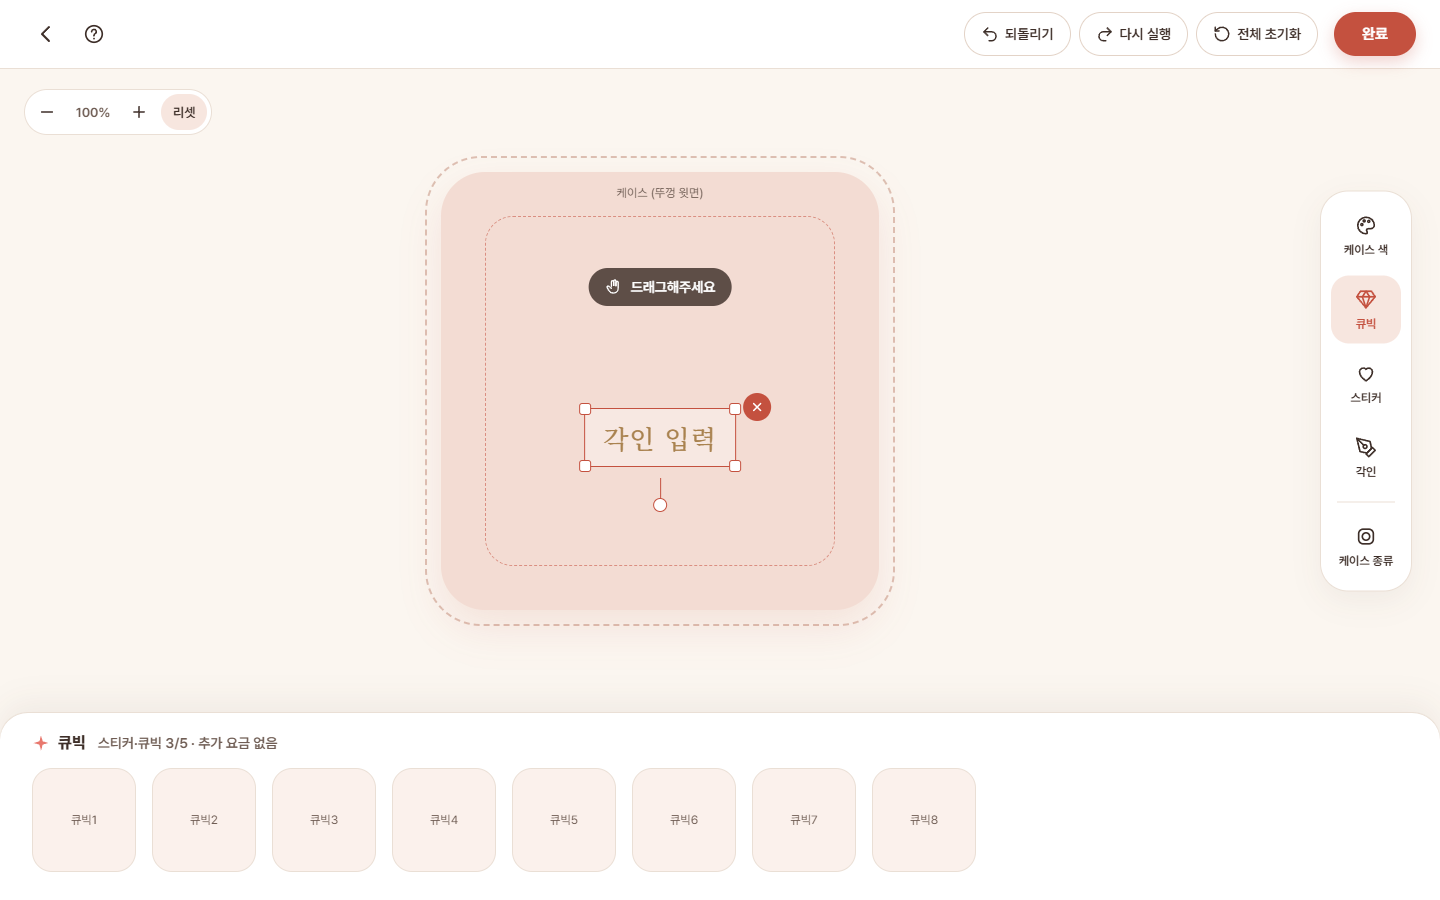
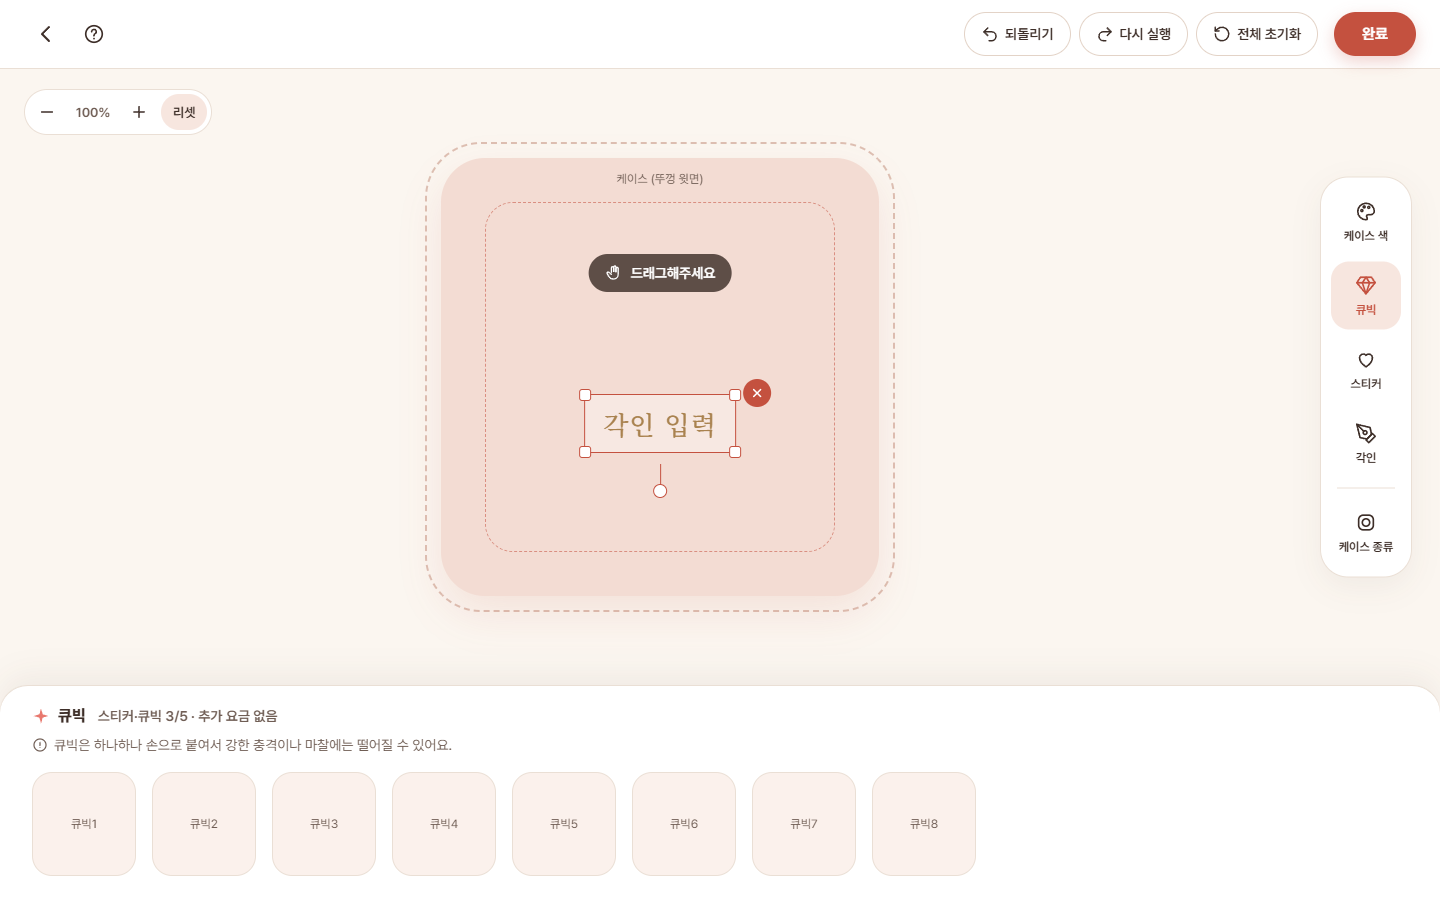
Pin the cubic caution inside the cubic panel and refresh PNGs
- Replace the timed P03 cubic notice with a fixed one-line caution under the cubic panel title
- Update downloaded design screenshots (P02-P06, M03) and remove the export zip
- Sync PROJECT_CONTEXT, structure, wireframe and interaction docs

diff --git a/docs/html/p03-customize.html b/docs/html/p03-customize.html
@@ -77,12 +77,6 @@ a{color:#3D2E28}a:hover{color:#C4513F}
             드래그해주세요
           </div>
 
-          <!-- 큐빅 안내: 큐빅 패널을 처음 열 때 드래그 안내 아래에 4초 -->
-          <div role="status" style="position: absolute; top: 148px; left: 50%; transform: translateX(-50%); display: flex; align-items: flex-start; gap: 8px; padding: 10px 16px; border-radius: 16px; background: rgba(61, 46, 40, 0.82); color: #FFFFFF; font-size: 14px; font-weight: 600; line-height: 1.5; white-space: nowrap">
-            <svg width="18" height="18" viewBox="0 0 24 24" fill="none" stroke="currentColor" stroke-width="1.8" stroke-linecap="round" stroke-linejoin="round" aria-hidden="true" style="flex: none; margin-top: 1px"><circle cx="12" cy="12" r="9"></circle><path d="M12 8v5M12 16h.01"></path></svg>
-            <span>큐빅은 하나하나 손으로 붙여 드려요.<br>강한 충격이나 마찰에는 떨어질 수 있어요.</span>
-          </div>
-
           <!-- 선택 상자 예시 (각인 선택 상태) -->
           <div style="position: absolute; top: 236px; left: 50%; transform: translateX(-50%); padding: 10px 18px; border: 1.5px solid #C4513F; border-radius: 6px; background: rgba(255, 255, 255, 0.35)">
             <span style="font-family: 'Noto Serif KR', serif; font-size: 26px; font-weight: 500; letter-spacing: 0.04em; color: #A9824F; white-space: nowrap">각인 입력</span>
@@ -121,12 +115,17 @@ a{color:#3D2E28}a:hover{color:#C4513F}
   </main>
 
   <!-- P03-S03 도구 패널 (큐빅 패널 예시) -->
-  <section aria-label="큐빅" style="flex: none; height: 188px; background: #FFFFFF; border-top: 1px solid #EADFD5; border-radius: 28px 28px 0 0; box-shadow: 0 -10px 30px rgba(61, 46, 40, 0.06); padding: 20px 32px 24px; box-sizing: border-box; display: flex; flex-direction: column; gap: 16px">
+  <section aria-label="큐빅" style="flex: none; min-height: 188px; background: #FFFFFF; border-top: 1px solid #EADFD5; border-radius: 28px 28px 0 0; box-shadow: 0 -10px 30px rgba(61, 46, 40, 0.06); padding: 20px 32px 24px; box-sizing: border-box; display: flex; flex-direction: column; gap: 16px">
     <div style="display: flex; align-items: center; gap: 8px">
       <svg width="18" height="18" viewBox="0 0 24 24" aria-hidden="true"><path d="M12 2l2.2 7.8L22 12l-7.8 2.2L12 22l-2.2-7.8L2 12l7.8-2.2z" fill="#E8786E"></path></svg>
       <h2 style="margin: 0; font-size: 16px; font-weight: 800">큐빅</h2>
       <span style="margin-left: 4px; font-size: 14px; font-weight: 600; color: #6F5D54">스티커·큐빅 3/5 · 추가 요금 없음</span>
     </div>
+    <!-- 큐빅 유의사항: 큐빅 패널에 항상 한 줄 (고르기 전에 보이게) -->
+    <p style="margin: -6px 0 0; display: flex; align-items: flex-start; gap: 6px; font-size: 14px; line-height: 1.5; color: #6F5D54">
+      <svg width="16" height="16" viewBox="0 0 24 24" fill="none" stroke="currentColor" stroke-width="1.8" stroke-linecap="round" stroke-linejoin="round" aria-hidden="true" style="flex: none; margin-top: 2px"><circle cx="12" cy="12" r="9"></circle><path d="M12 8v5M12 16h.01"></path></svg>
+      큐빅은 하나하나 손으로 붙여서 강한 충격이나 마찰에는 떨어질 수 있어요.
+    </p>
     <div style="display: flex; gap: 16px; overflow-x: auto">
       <sc-for list="{{stickers}}" as="s" hint-placeholder-count="8">
         <button type="button" aria-label="큐빅 {{s.n}}" style="flex: none; width: 104px; height: 104px; border-radius: 20px; border: 1px solid #EADFD5; background: #FBF1EC; color: #6F5D54; font: inherit; font-size: 12px; display: flex; align-items: center; justify-content: center; cursor: pointer; padding: 0">큐빅 {{s.n}}</button>

diff --git a/src/pages/CustomizePage.jsx b/src/pages/CustomizePage.jsx
@@ -26,12 +26,12 @@ import {
 import {
   CASE_COLORS,
   CASE_TYPES,
-  CUBIC_NOTICE,
   ENGRAVE_MAX,
   ENGRAVE_STYLES,
   ENGRAVE_PRICE,
   EXTRA_DECO_PRICE,
   FREE_DECO,
+  SHIPPING_INFO,
   STICKERS,
   countDeco,
   countEngrave,
@@ -146,8 +146,6 @@ export default function CustomizePage() {
   const [hint, setHint] = useState('hidden'); // hidden | show | fade
   const [ghost, setGhost] = useState(null); // 패널에서 끌고 있는 스티커
   const hintShownRef = useRef(false);
-  const [cubicNote, setCubicNote] = useState('hidden'); // hidden | show | fade — 큐빅 패널을 처음 열 때 "떨어질 수 있어요" 안내
-  const cubicNoteShownRef = useRef(false);
 
   const designRef = useRef(design);
   designRef.current = design;
@@ -593,24 +591,7 @@ export default function CustomizePage() {
       hintShownRef.current = true;
       setHint('show');
     }
-    // 큐빅 패널을 처음 열면 "떨어질 수 있어요" 안내를 조금 더 길게 보여줌 (스티커를 붙여도 바로 사라지지 않음)
-    if (opening && key === 'cubic' && !cubicNoteShownRef.current) {
-      cubicNoteShownRef.current = true;
-      setCubicNote('show');
-    }
   };
-
-  useEffect(() => {
-    if (cubicNote === 'show') {
-      const t = setTimeout(() => setCubicNote('fade'), 4000);
-      return () => clearTimeout(t);
-    }
-    if (cubicNote === 'fade') {
-      const t = setTimeout(() => setCubicNote('hidden'), 600);
-      return () => clearTimeout(t);
-    }
-    return undefined;
-  }, [cubicNote]);
 
   useEffect(() => {
     if (hint === 'show') {
@@ -841,20 +822,6 @@ export default function CustomizePage() {
                     <span className="cz-hint-touch">눌러서 붙이고, 끌어서 옮겨요</span>
                   </div>
                 )}
-
-                {cubicNote !== 'hidden' && (
-                  <div
-                    className={`cz-hint cz-cubic-note${hint !== 'hidden' ? ' is-below' : ''}${cubicNote === 'fade' ? ' is-fade' : ''}`}
-                    role="status"
-                  >
-                    <IconInfo size={18} />
-                    <span>
-                      {CUBIC_NOTICE[0]}
-                      <br />
-                      {CUBIC_NOTICE[1]}
-                    </span>
-                  </div>
-                )}
               </div>
             </div>
           </div>
@@ -910,6 +877,14 @@ export default function CustomizePage() {
               </span>
             )}
           </div>
+
+          {/* 큐빅 유의사항: 큐빅 패널에 항상 한 줄 (고르기 전에 보이게) */}
+          {panel === 'cubic' && (
+            <p className="cz-panel-note">
+              <IconInfo size={16} />
+              {SHIPPING_INFO.caution}
+            </p>
+          )}
 
           {panel === 'color' && (
             <div className="cz-panel-list" role="radiogroup" aria-label="케이스 색">

diff --git a/src/pages/CustomizePage.css b/src/pages/CustomizePage.css
@@ -264,23 +264,6 @@
   opacity: 0;
 }
 
-/* 큐빅 안내: 두 줄이라 알약 대신 둥근 상자, "드래그해주세요"가 함께 보이면 그 아래에 놓음 */
-.cz-cubic-note {
-  align-items: flex-start;
-  border-radius: 16px;
-  font-size: 14px;
-  line-height: 1.5;
-  text-align: left;
-}
-
-.cz-cubic-note svg {
-  flex: none;
-  margin-top: 1px;
-}
-
-.cz-cubic-note.is-below {
-  top: 148px;
-}
 
 /* 오른쪽 세로 도구 버튼 */
 .cz-tools {
@@ -395,6 +378,23 @@
   font-size: 16px;
   font-weight: 800;
   line-height: 1.4;
+}
+
+/* 큐빅 유의사항: 패널 제목 아래 흐린 한 줄 (좁으면 낱말 단위로 줄바꿈) */
+.cz-panel-note {
+  display: flex;
+  align-items: flex-start;
+  gap: 6px;
+  margin: -4px 0 0;
+  font-size: 14px;
+  line-height: 1.5;
+  color: var(--ink-muted);
+  word-break: keep-all;
+}
+
+.cz-panel-note svg {
+  flex: none;
+  margin-top: 2px;
 }
 
 .cz-panel-list {
@@ -758,16 +758,6 @@
     display: inline;
     font-size: 14px;
   }
-
-  /* 큐빅 안내는 터치 기기에서도 글자를 그대로 보여줌 (위 .cz-hint font-size: 0 되돌림) */
-  .cz-cubic-note {
-    font-size: 14px;
-    gap: 8px;
-  }
-
-  .cz-cubic-note svg {
-    margin-right: 0;
-  }
 }
 
 /* ===== 반응형 — P03 꾸미기 (모바일: 폭 1024px 이하 터치 기기) — 데스크탑에는 적용되지 않음 =====
@@ -951,10 +941,5 @@
   .cz-hint {
     transform: translateX(-50%) scale(calc(1 / var(--cz-fit, 1)));
     transform-origin: top center;
-  }
-
-  /* 위 안내가 원래 크기로 커진 만큼 아래로 내림 */
-  .cz-cubic-note.is-below {
-    top: calc(96px + 52px / var(--cz-fit, 1));
   }
 }

diff --git a/src/data/catalog.js b/src/data/catalog.js
@@ -299,11 +299,11 @@ export const SHIPPING_INFO = {
   period: `${SHIPPING_PERIOD.before} ${SHIPPING_PERIOD.range} ${SHIPPING_PERIOD.after} ${SHIPPING_PERIOD.note}`,
   fee: '무료 (전 상품 무료배송)',
   refund: '직접 꾸민 주문 제작 상품이라 단순 변심에 의한 교환·환불이 어려울 수 있어요.',
-  // P02 유의사항
+  // P02 유의사항 · P03 큐빅 패널 한 줄
   caution: '큐빅은 하나하나 손으로 붙여서 강한 충격이나 마찰에는 떨어질 수 있어요.',
 };
 
-// 큐빅 안내: 실제 아크릴 큐빅을 손으로 붙이므로 떨어질 수 있음을 알림 (P03 큐빅 패널 첫 안내, P04 주문 제작 상품 안내 — P02 유의사항은 SHIPPING_INFO.caution)
+// 큐빅 안내: 실제 아크릴 큐빅을 손으로 붙이므로 떨어질 수 있음을 알림 (P04 주문 제작 상품 안내는 두 번째 문장 — P02 유의사항·P03 큐빅 패널 한 줄은 SHIPPING_INFO.caution)
 export const CUBIC_NOTICE = ['큐빅은 하나하나 손으로 붙여 드려요.', '강한 충격이나 마찰에는 떨어질 수 있어요.'];
 
 // 예상 배송일: 주문일에서 주말을 빼고 5~7일 뒤 (공휴일은 계산하지 않음) — 예: "11.24(화) ~ 11.26(목)"

diff --git a/PROJECT_CONTEXT.md b/PROJECT_CONTEXT.md
@@ -59,7 +59,7 @@
 - 레이아웃: 화면 프레임 너비 1440, 안내창 너비 480 (출처: 04-site-wireframe.md) · 화면 구성은 깔끔하게, 복잡하고 정신없는 화면은 피함 (출처: 01-site-purpose.md) · 여백: 4px 단위, 페이지 좌우 32px, 내용 최대 너비 1200px, 섹션 사이 80~96px (출처: 06-site-design.md)
 - 반복 요소: 핵심 행동은 눈에 띄게 구분(케이스 종류 카드, 꾸미기 시작, 완료, 바로 구매하기, 결제하기, 주문하기) (출처: 04-site-wireframe.md) · 모서리 모양: 둥글게. 버튼은 완전히 둥근 알약 모양, 카드·이미지는 16px 이상 둥근 모서리 (출처: 사용자 답변)
 - 분위기와 말투: 감성적이고 아기자기하며 예쁜 느낌. 아기자기함은 스티커·일러스트·작은 디테일로 표현 (출처: 01-site-purpose.md) · 예시 문장: "나만의 쿠션 케이스, 모아에서 완성해요" (출처: 02-site-structure.md), "꾸민 디자인은 케이스에 인쇄되고, 큐빅은 실제로 붙여 드려요" (출처: 사용자 답변)
-- 상품 제작 방식: 스티커와 케이스 색은 인쇄, 큐빅은 실제 아크릴 큐빅을 붙임, 글자는 각인 (출처: 사용자 답변) · 큐빅은 강한 충격이나 마찰에 떨어질 수 있다고 P02 배송·교환 안내의 "유의사항" 줄, P03 큐빅 패널 첫 안내, P04 주문 제작 상품 안내, M03 이용약관에 알림 (2026-11-18 추가, 문구는 `catalog.js`의 `CUBIC_NOTICE`) (출처: 사용자 답변 — 추천안 승인)
+- 상품 제작 방식: 스티커와 케이스 색은 인쇄, 큐빅은 실제 아크릴 큐빅을 붙임, 글자는 각인 (출처: 사용자 답변) · 큐빅은 강한 충격이나 마찰에 떨어질 수 있다고 P02 배송·교환 안내의 "유의사항" 줄, P03 큐빅 패널 안 한 줄, P04 주문 제작 상품 안내, M03 이용약관에 알림 (2026-11-18 추가, 문구는 `catalog.js`의 `SHIPPING_INFO.caution`·`CUBIC_NOTICE`, 약관은 `policies.js`) (출처: 사용자 답변 — 추천안 승인)
 - 꾸밈 이미지 방향: 미니멀 엘레건스. 한 케이스에 요소 2~3개, 통통하고 반짝이는 파스텔 아크릴 큐빅, 넉넉한 여백. 원색과 많은 요소는 피함 (출처: 사용자 답변)
 - 스티커 스타일: 가는 브라운·로즈 외곽선에 연한 파스텔 채색, 평평하게 인쇄된 다꾸풍 일러스트 (곰돌이는 점 눈과 작은 입만). 리본 스티커와 그림 스티커를 "스티커" 하나로 합침 (출처: 사용자 답변)
 - 참고한 레퍼런스와 적용 위치: 사용자가 보여준 베이직 톤 쿠션 케이스 사이트 이미지 → 영문 필기체 포인트만 P01 소개 배너에 적용 (출처: 사용자 답변)
@@ -93,7 +93,7 @@
 | P03 각인 | 각인 글자 | 스타일 클릭 후 입력 | "각인 입력" 표시, 입력 내용 실시간 반영, 10자 제한(0/10), 빈 채로 선택을 풀면 사라짐 · 스티커처럼 이동·크기·회전·삭제 | 확정 (텍스트 → 각인, 출처: 사용자 답변) |
 | P03 상단 바 | 되돌리기·다시 실행 | 클릭 | 마지막 동작 취소 / 다시 실행 | 확정 |
 | P03 캔버스 | 배율 | 축소·확대·리셋 클릭 | 배율 변경 | 확정 |
-| P03 큐빅 안내 | "큐빅은 하나하나 손으로 붙여 드려요. / 강한 충격이나 마찰에는 떨어질 수 있어요." (두 줄) | 큐빅 패널을 처음 열 때 | 케이스 위 가운데에 4초 보였다가 서서히 사라짐(0.6초) · 드래그 안내가 함께 보이면 그 아래 · 스티커를 붙여도 바로 사라지지 않음 · 모든 기기 | 확정 (출처: 사용자 답변 — 추천안 승인, 2026-11-18) |
+| P03 큐빅 패널 | 유의사항 한 줄 "큐빅은 하나하나 손으로 붙여서 강한 충격이나 마찰에는 떨어질 수 있어요." | 큐빅 패널이 열려 있는 동안 항상 | 패널 제목 줄 바로 아래, 흐린 글자 + 안내 아이콘 · 큐빅을 고르기 전에 보이게 · 떴다 사라지는 안내는 쓰지 않음 · 모든 기기 | 확정 (출처: 사용자 답변 — 추천안 승인, 2026-11-18) |
 | P03 첫 안내 | "드래그해주세요" (휴대폰·태블릿은 "눌러서 붙이고, 끌어서 옮겨요") | 큐빅·스티커 패널을 처음 열 때 | 잠깐 보였다가 서서히 사라짐 · 첫 스티커를 붙이면 바로 사라짐 | 확정 |
 | P05 필수 항목 | 안내 문구 | 입력칸에서 나갔을 때, 비활성 결제하기를 눌렀을 때 | 빠진 필수 항목 아래에 안내 문구를 보여줌 (예: "받는 사람을 입력해 주세요", "연락처 형식을 확인해 주세요 (예: 010-1234-5678)", "결제 수단을 골라 주세요", "필수 항목에 모두 동의해 주세요") | 확정 (출처: 사용자 답변 — 추천안 승인, 문구는 2026-11-17 확정) |
 | P07 수정하기 | 버튼 | 누를 때 | 담은 디자인을 꾸미기 화면에서 고침 · 꾸미기 "완료"가 "수정완료"로 바뀌고, 확인 화면 "장바구니 담기"를 누르면 원래 카드 자리에 바꿔 들어감(버튼 이름은 그대로) · 모든 기기 | 확정 (출처: 사용자 답변) |

diff --git a/docs/04-site-wireframe.md b/docs/04-site-wireframe.md
@@ -122,7 +122,7 @@
 - P03-S02 편집 영역 (케이스 캔버스 + 오른쪽 도구 버튼 + 아래 도구 패널)
   - 케이스 (X 상자), 바깥 점선 = 케이스 전체 (뚜껑 윗면), 안쪽 점선 = 꾸밀 수 있는 범위 (스티커는 안쪽 점선 안에서만 움직임) · 둥근 정사각형은 네모, 원형·하트·꽃은 가운데 원
   - 드래그 안내 (아이콘 X 상자 + 회색 선): "드래그해주세요"(휴대폰·태블릿은 "눌러서 붙이고, 끌어서 옮겨요") · 스티커 패널을 처음 열 때 케이스 위 가운데에 잠깐 보였다가 사라짐
-  - 큐빅 안내 (아이콘 X 상자 + 회색 선 두 줄): "큐빅은 하나하나 손으로 붙여 드려요. / 강한 충격이나 마찰에는 떨어질 수 있어요." · 큐빅 패널을 처음 열 때 드래그 안내 자리(함께 보이면 그 아래)에 4초 보였다가 사라짐 (2026-11-18 추가, 문구는 `catalog.js`의 `CUBIC_NOTICE`)
+  - 큐빅 패널 유의사항 (회색 선 한 줄): 큐빅 패널 제목 줄 바로 아래에 "큐빅은 하나하나 손으로 붙여서 강한 충격이나 마찰에는 떨어질 수 있어요." · 패널이 열려 있는 동안 항상 보임 (2026-11-18)
   - 선택 상자 예시 (각인 선택 상태): 드래그 이동, 모서리 핸들 4개 크기 조절, 아래 동그라미 회전 핸들, P03-B10 삭제 X (선택한 스티커 하나 삭제)
   - P03-B07 축소 / P03-B08 확대 / P03-B09 리셋 (버튼, 편집 영역 왼쪽 위), 배율은 회색 선
   - 열린 패널 예시: 큐빅 패널 (어떤 도구 버튼을 눌러도 화면 아래에서 가로로 열림, 케이스를 가리지 않음, 같은 버튼을 다시 누르거나 캔버스를 누르면 닫힘)

diff --git a/docs/02-site-structure.md b/docs/02-site-structure.md
@@ -86,7 +86,7 @@
   - 꾸밀 수 있는 면: 쿠션 팩트 뚜껑 윗면 하나
   - 편집 영역 왼쪽 위에 확대·축소(축소, 확대, 리셋)를 둔다. (아래쪽은 도구 패널 자리)
   - 빈 케이스에서 시작한다. 큐빅·스티커 패널을 처음 열면 케이스 위 가운데에 아이콘과 "드래그해주세요" 안내(휴대폰·태블릿은 "눌러서 붙이고, 끌어서 옮겨요")가 잠깐 보였다가 서서히 사라진다.
-  - 큐빅 패널을 처음 열면 "큐빅은 하나하나 손으로 붙여 드려요. / 강한 충격이나 마찰에는 떨어질 수 있어요." 안내(두 줄)가 4초 보였다가 사라진다. 드래그 안내가 함께 보이면 그 아래에 놓는다. (2026-11-18 추가, 문구는 `catalog.js`의 `CUBIC_NOTICE`)
+  - 큐빅 패널 제목 줄 바로 아래에 "큐빅은 하나하나 손으로 붙여서 강한 충격이나 마찰에는 떨어질 수 있어요."를 흐린 글자로 항상 보여준다(큐빅을 고르기 전에 보이게). (2026-11-18, 문구는 `catalog.js`의 `SHIPPING_INFO.caution`)
 - 도구 버튼 5개 (오른쪽 세로, 자주 쓰는 순서대로 위에서 아래로)
   - 케이스 색: 색 동그라미 패널. 첫 번째 색이 선택된 상태로 시작한다. 꾸미는 도중에도 바꿀 수 있고, 붙인 스티커는 그대로 유지된다. (밀크 화이트(기본), 블러시 핑크, 라벤더, 스카이 블루, 코코아 베이지 5가지)
   - 큐빅: 실제로 붙이는 파스텔 아크릴 보석 목록 패널 (8개: 핑크 하트, 라벤더 별, 투명 원, 스카이 블루 하트, 핑크 꽃, 샴페인 원, 코랄 별, 진주)
